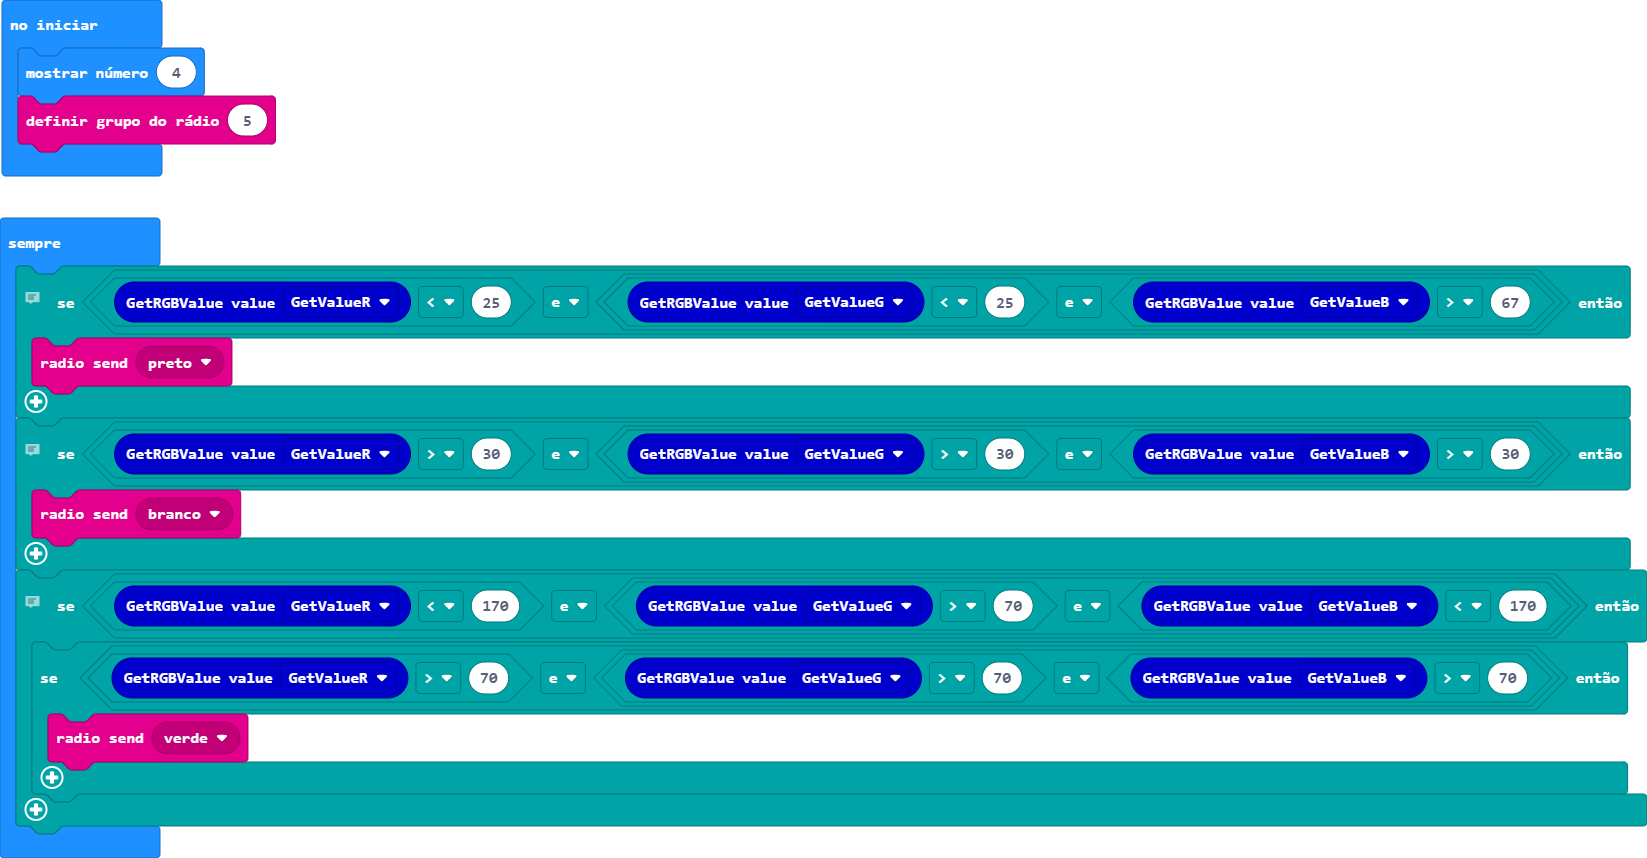
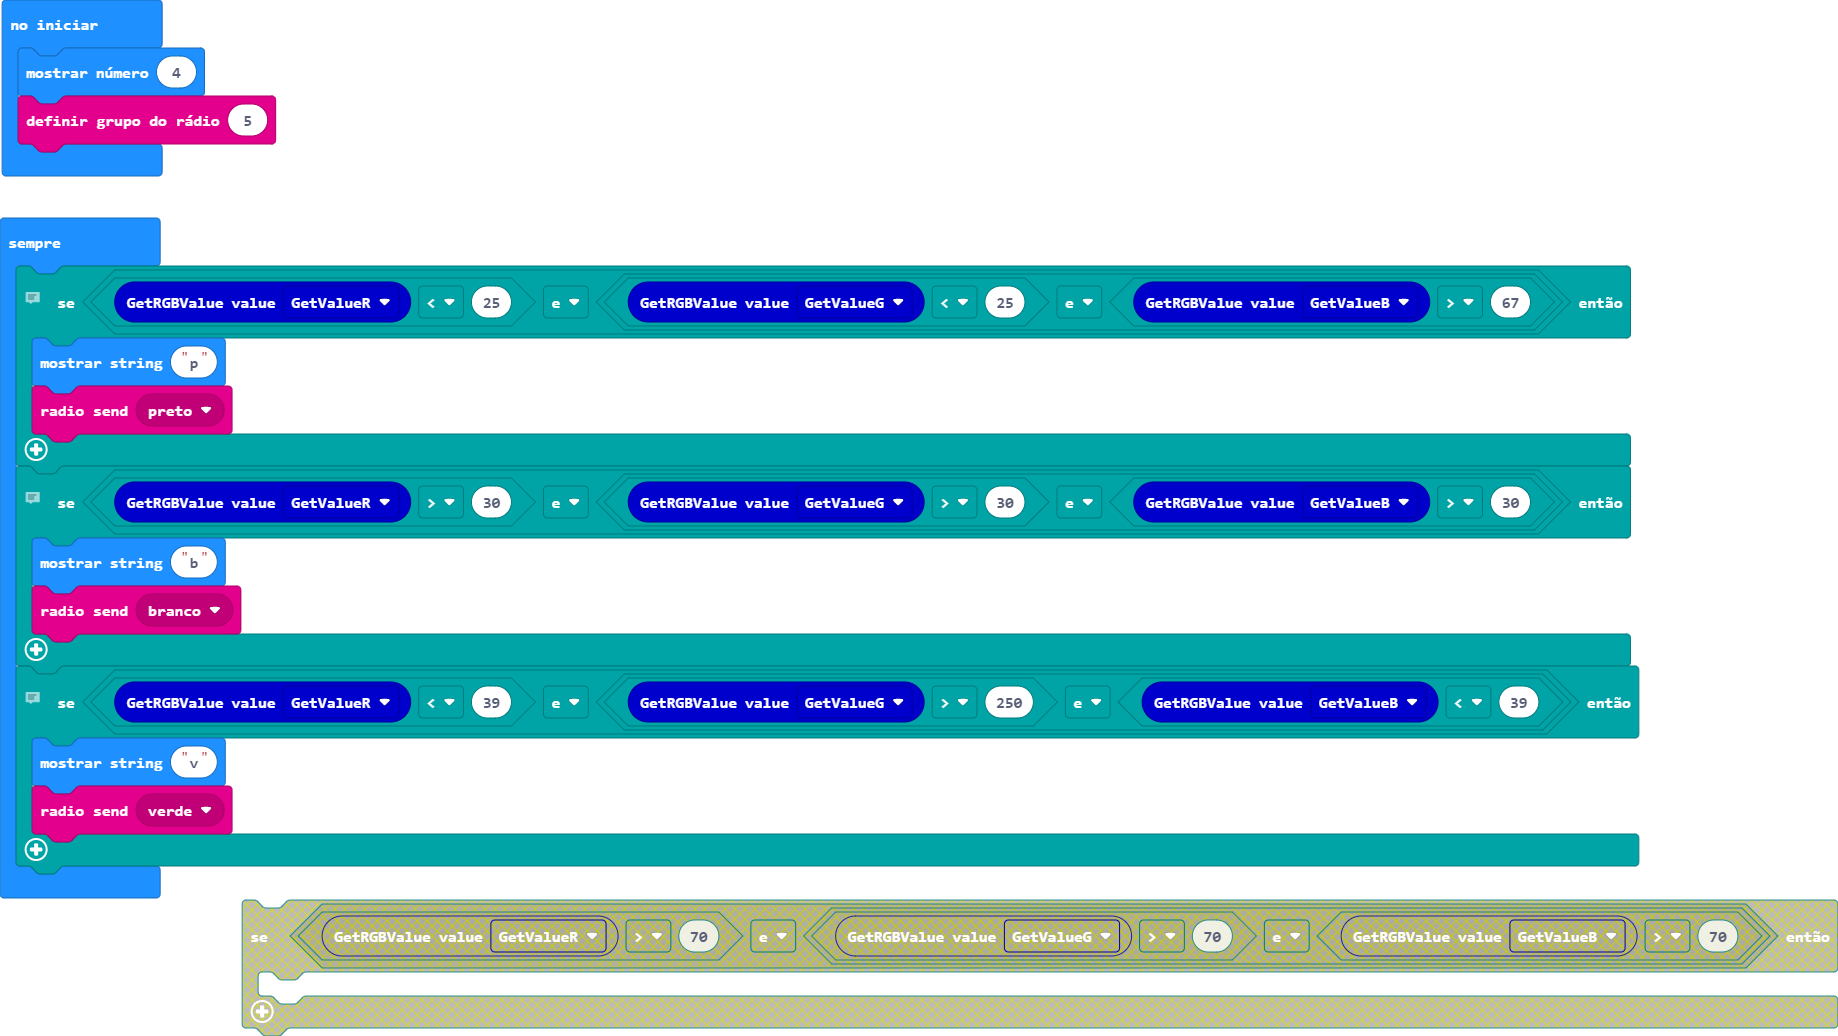
teste de 3 cores no 4

diff --git a/main.ts b/main.ts
@@ -9,16 +9,17 @@ radio.setGroup(5)
 basic.forever(function () {
     // Vendo preto
     if (Module_World_Color.GetRGBValue(Module_World_Color.enGetRGB.GetValueR) < 25 && (Module_World_Color.GetRGBValue(Module_World_Color.enGetRGB.GetValueG) < 25 && Module_World_Color.GetRGBValue(Module_World_Color.enGetRGB.GetValueB) > 67)) {
+        basic.showString("p")
         radio.sendMessage(RadioMessage.preto)
     }
     // vendo branco
     if (Module_World_Color.GetRGBValue(Module_World_Color.enGetRGB.GetValueR) > 30 && (Module_World_Color.GetRGBValue(Module_World_Color.enGetRGB.GetValueG) > 30 && Module_World_Color.GetRGBValue(Module_World_Color.enGetRGB.GetValueB) > 30)) {
+        basic.showString("b")
         radio.sendMessage(RadioMessage.branco)
     }
     // vendo verde
-    if (Module_World_Color.GetRGBValue(Module_World_Color.enGetRGB.GetValueR) < 170 && (Module_World_Color.GetRGBValue(Module_World_Color.enGetRGB.GetValueG) > 70 && Module_World_Color.GetRGBValue(Module_World_Color.enGetRGB.GetValueB) < 170)) {
-        if (Module_World_Color.GetRGBValue(Module_World_Color.enGetRGB.GetValueR) > 70 && (Module_World_Color.GetRGBValue(Module_World_Color.enGetRGB.GetValueG) > 70 && Module_World_Color.GetRGBValue(Module_World_Color.enGetRGB.GetValueB) > 70)) {
-            radio.sendMessage(RadioMessage.verde)
-        }
+    if (Module_World_Color.GetRGBValue(Module_World_Color.enGetRGB.GetValueR) < 39 && (Module_World_Color.GetRGBValue(Module_World_Color.enGetRGB.GetValueG) > 250 && Module_World_Color.GetRGBValue(Module_World_Color.enGetRGB.GetValueB) < 39)) {
+        basic.showString("v")
+        radio.sendMessage(RadioMessage.verde)
     }
 })
